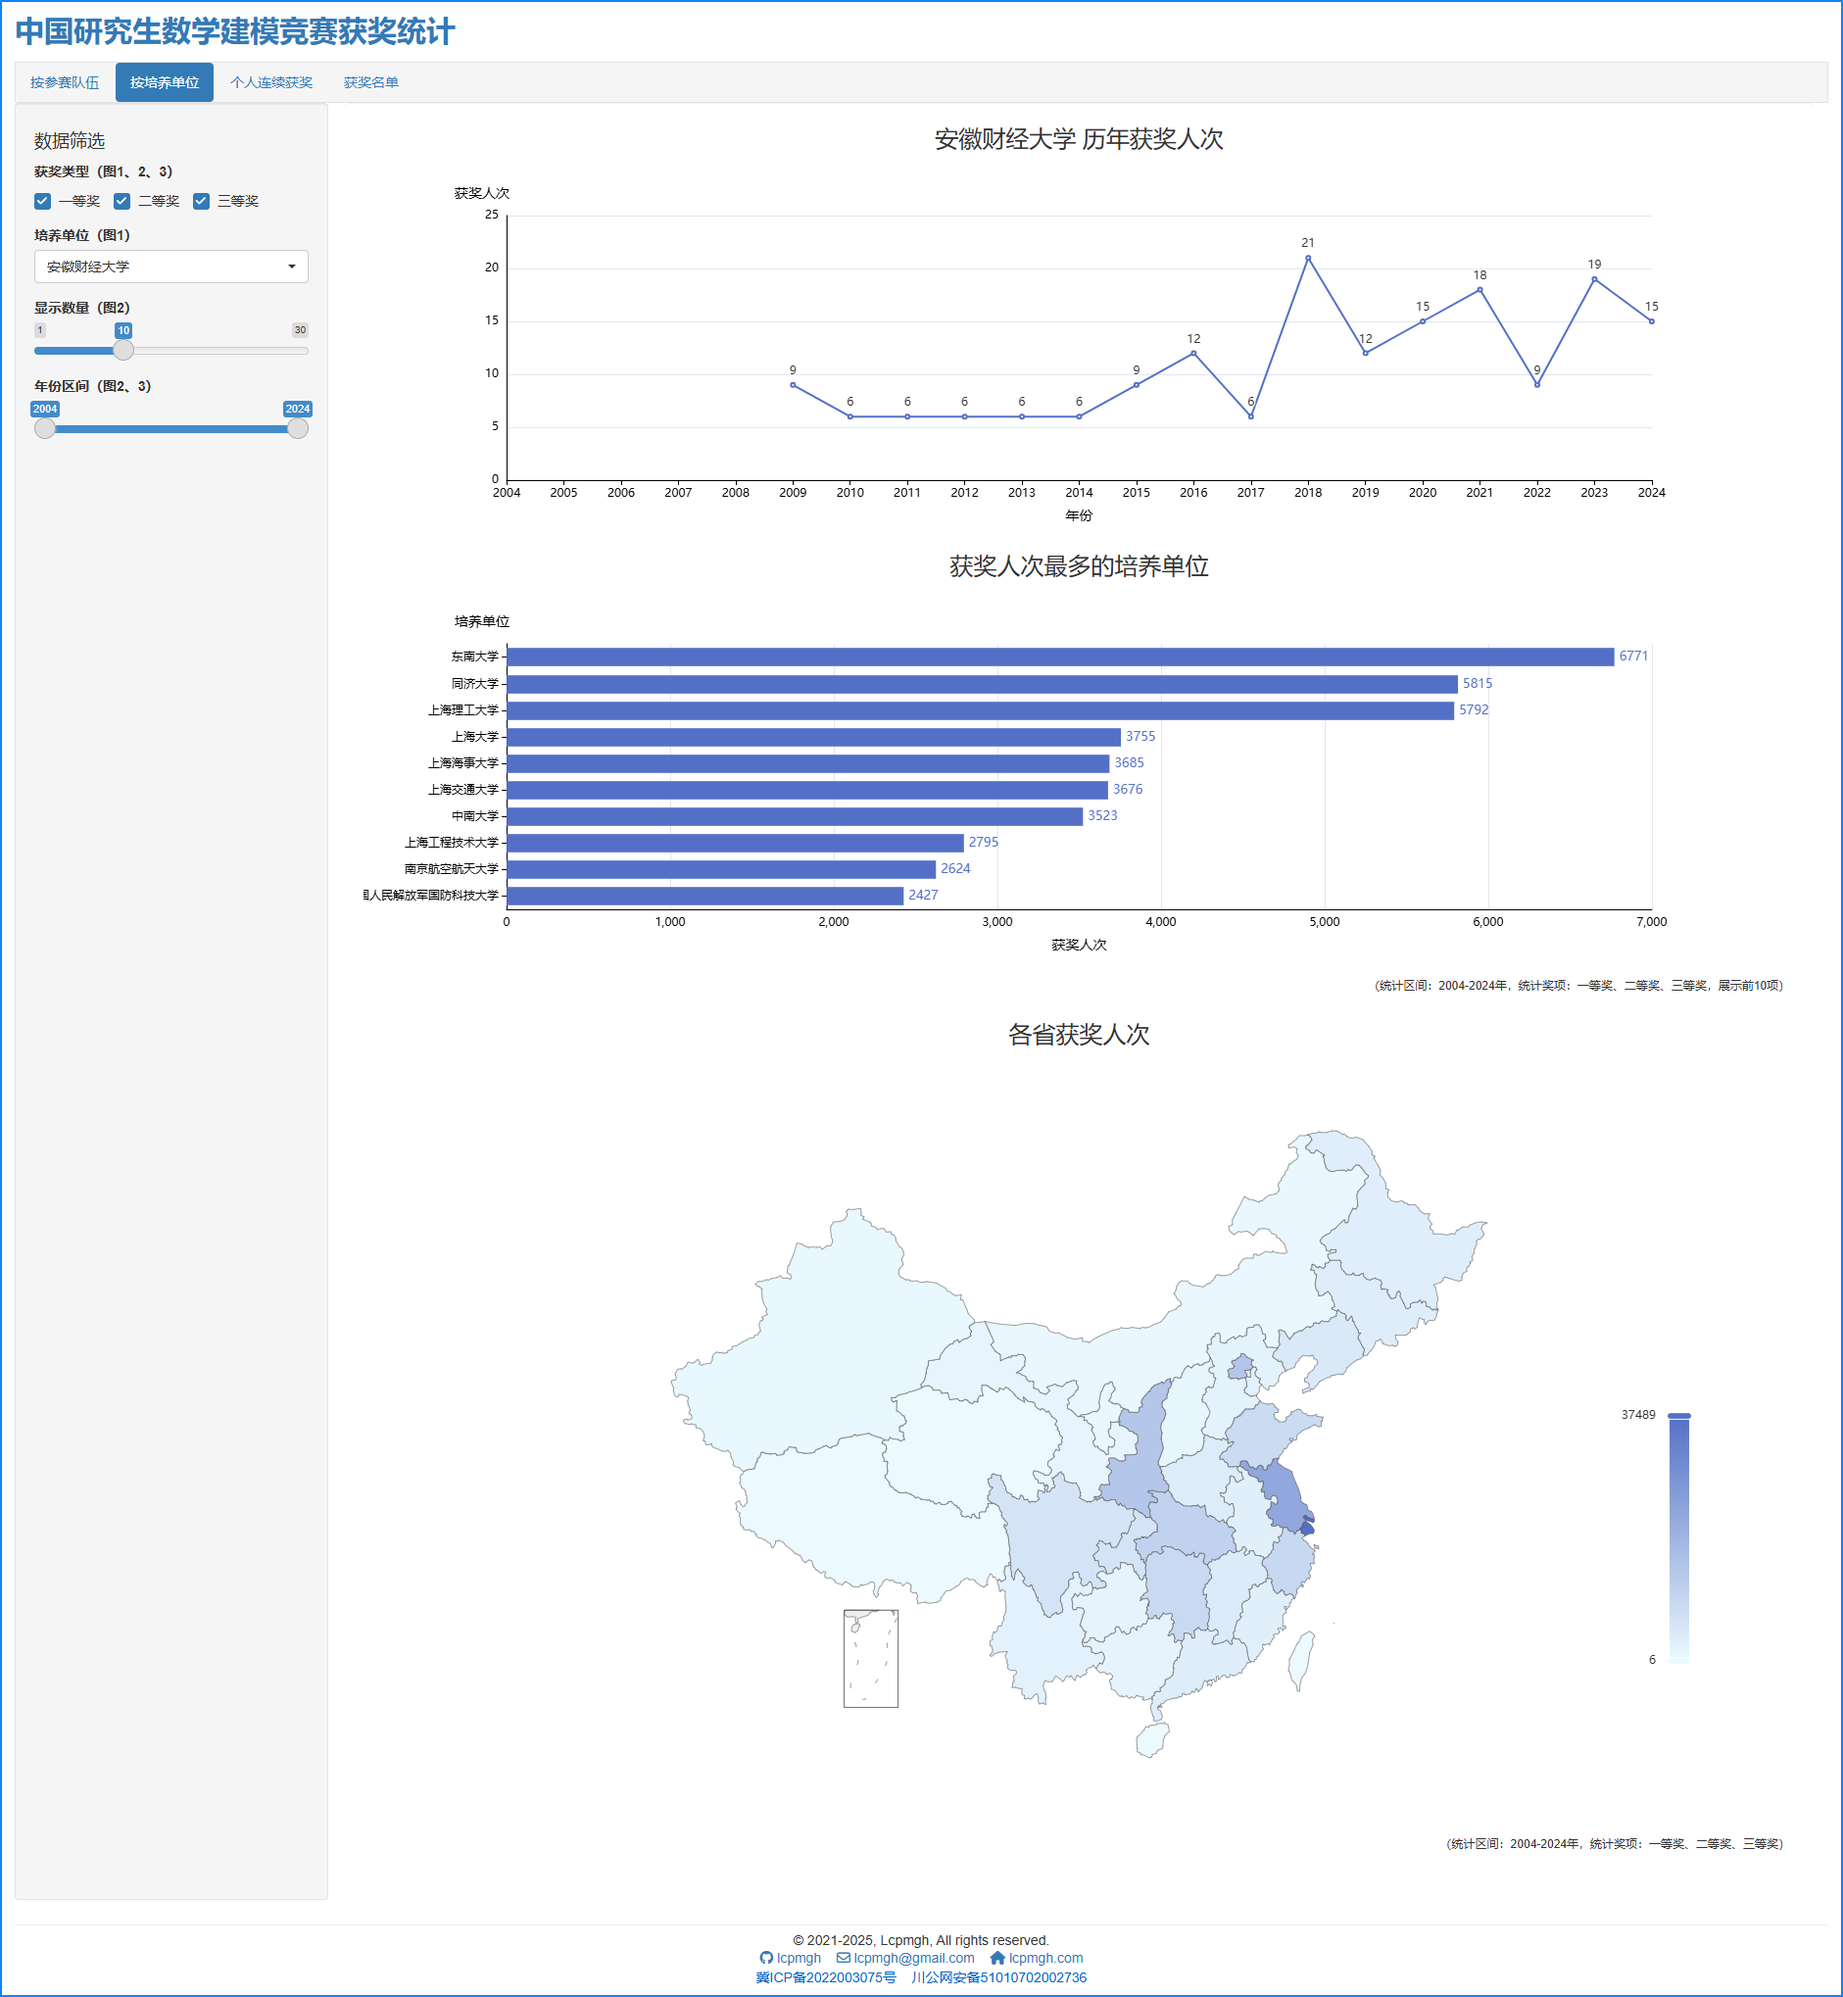
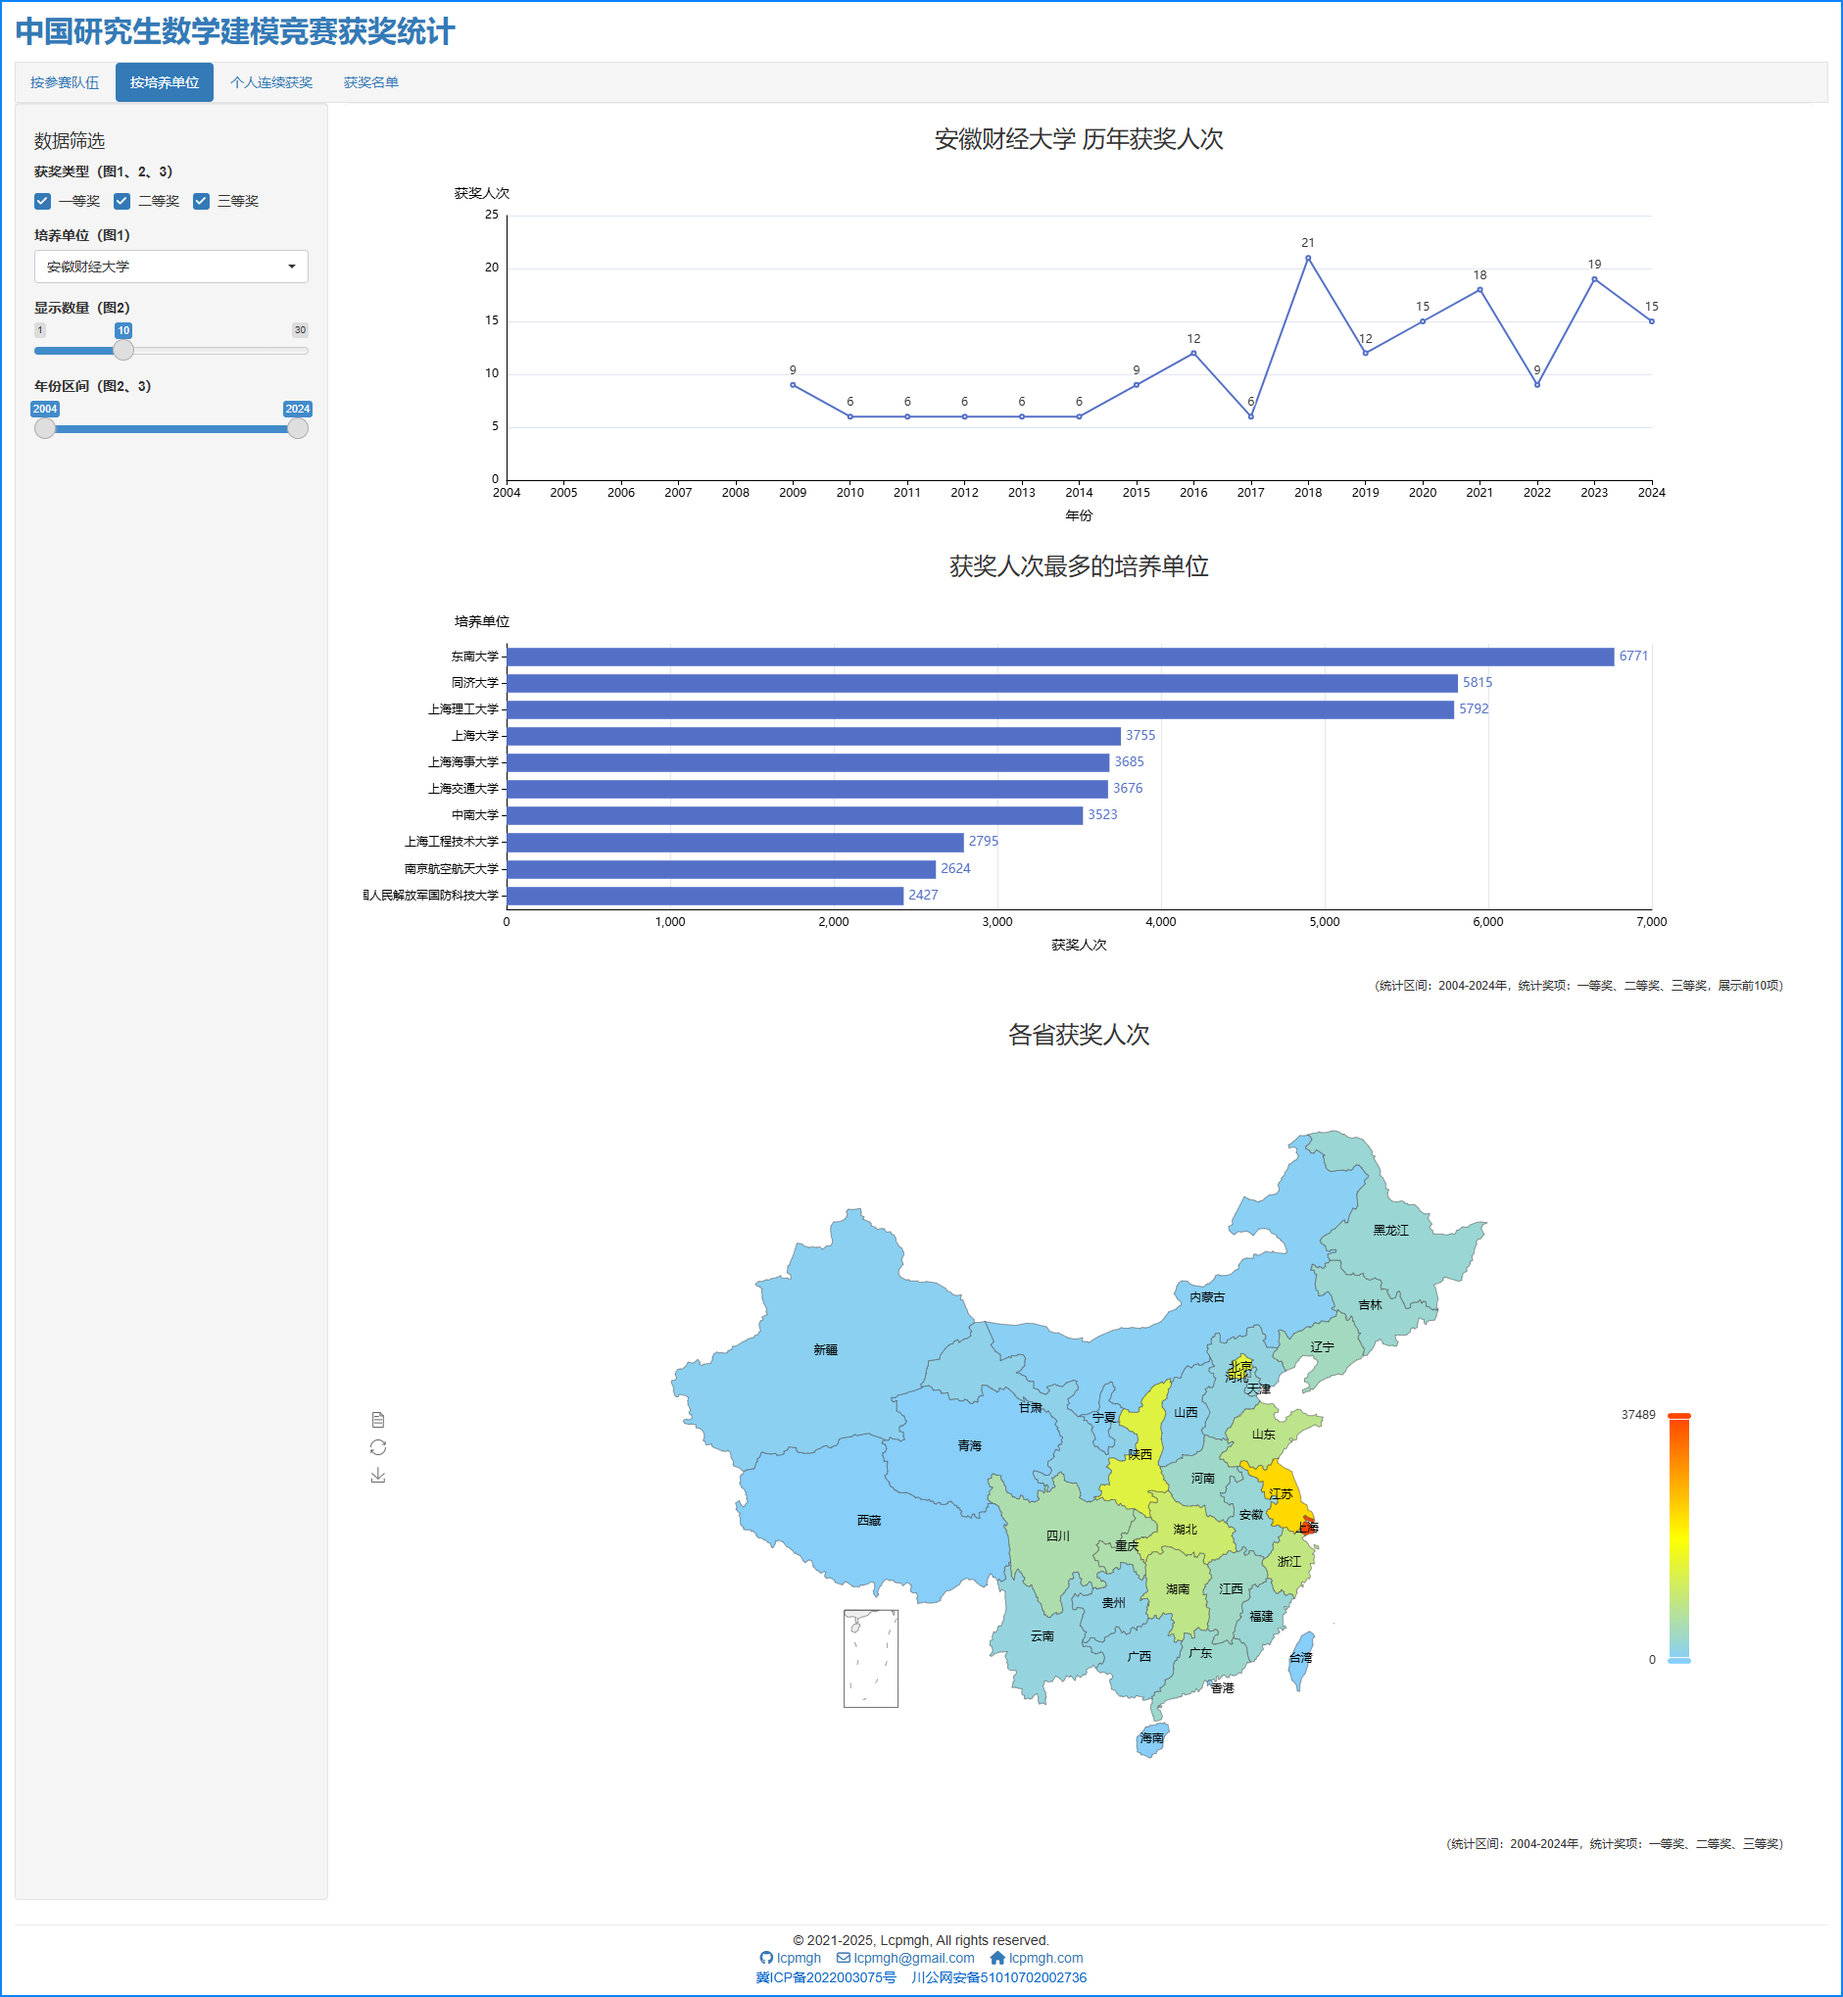
更新至v7.0

diff --git a/Readme.md b/Readme.md
@@ -49,10 +49,10 @@
    + 2024年起，新增了国际赛道题目，目前仅两条数据，因此所有统计信息中，都没有考虑此类题型（题型为H、G，见2024.csv最后两行）。
    + 目前已在3-unit_info_dataset.csv中添加了所有培养单位的所在的国家级、省级、地级信息，然而由于地图绘制耗时，仅省级json等待时间都很长，因此并没有进一步分析展示地级市信息，后续版本可能会利用这部分信息。
 3. **更换、精简R包**：
-   + 用echarty包替换ECharts2Shiny包：后者可调参数少、版本旧、与绘制交互地图的REmap等包冲突。
-   + 用echarty包替换ggplot2包：后者静态图并不适合shinyapp。
-   + 用echarts4r替换REmap：REmap很久没更新，现在画图有bug。这里没有用echarty包，是因为这个包画地图时仍有问题没解决，而echart4r包同样通过ecahrt画图，只是版本比较旧了，后续会继续尝试用echarty包画地图。
-4. **更换页面顺序**：最早版本将队伍信息放在第一页，然而由于REmap与ECharts2Shiny冲突，因此将获奖名单改为了第一页，如今两个包都被替换，冲突问题得以解决，因此恢复了更为适合的页面顺序。
+   + 用`echarty`包替换`ECharts2Shiny`包：后者可调参数少、版本旧、与绘制交互地图的`REmap`等包冲突。
+   + 用`echarty`包替换`ggplot2`包：后者静态图并不适合shinyapp。
+   + 用`echarty`包替换`REmap`包：后者很久没更新，现在画地图有bug。
+4. **更换页面顺序**：最早版本将队伍信息放在第一页，然而由于`REmap`与`ECharts2Shiny`冲突，因此将获奖名单改为了第一页，如今两个包都被替换，冲突问题得以解决，因此恢复了更为适合的页面顺序。
 5. **更改图类型**：第一页中的获奖概率、获奖数量（按体型）和获奖数量（按奖项）三个图改为折线堆叠图，并且中堆叠图中添加了一个普通的折线图层，标记总和。
 6. **更改页面内容**：将原第三页（现第二页）标题名改为”按培养单位“，并且添加了一个图，用以显示某特定培养单位历年获奖情况。
 7. **其他细节**：优化了页面整体siderbar和mian的布局效果。

diff --git a/v7.0/#readme_v7.0.md b/v7.0/#readme_v7.0.md
@@ -5,10 +5,10 @@
    + 2024年起，新增了国际赛道题目，目前仅两条数据，因此所有统计信息中，都没有考虑此类题型（题型为H、G，见2024.csv最后两行）。
    + 目前已在3-unit_info_dataset.csv中添加了所有培养单位的所在的国家级、省级、地级信息，然而由于地图绘制耗时，仅省级json等待时间都很长，因此并没有进一步分析展示地级市信息，后续版本可能会利用这部分信息。
 1. **更换、精简R包**：
-   + 用echarty包替换ECharts2Shiny包：后者可调参数少、版本旧、与绘制交互地图的REmap等包冲突。
-   + 用echarty包替换ggplot2包：后者静态图并不适合shinyapp。
-   + 用echarts4r替换REmap：REmap很久没更新，现在画图有bug。这里没有用echarty包，是因为这个包画地图时仍有问题没解决，而echart4r包同样通过ecahrt画图，只是版本比较旧了，后续会继续尝试用echarty包画地图。
-1. **更换页面顺序**：最早版本将队伍信息放在第一页，然而由于REmap与ECharts2Shiny冲突，因此将获奖名单改为了第一页，如今两个包都被替换，冲突问题得以解决，因此恢复了更为适合的页面顺序。
+   + 用`echarty`包替换`ECharts2Shiny`包：后者可调参数少、版本旧、与绘制交互地图的`REmap`等包冲突。
+   + 用`echarty`包替换`ggplot2`包：后者静态图并不适合shinyapp。
+   + 用`echarty`包替换`REmap`包：后者很久没更新，现在画地图有bug。
+1. **更换页面顺序**：最早版本将队伍信息放在第一页，然而由于`REmap`与`ECharts2Shiny`冲突，因此将获奖名单改为了第一页，如今两个包都被替换，冲突问题得以解决，因此恢复了更为适合的页面顺序。
 1. **更改图类型**：第一页中的获奖概率、获奖数量（按体型）和获奖数量（按奖项）三个图改为折线堆叠图，并且中堆叠图中添加了一个普通的折线图层，标记总和。
 1. **更改页面内容**：将原第三页（现第二页）标题名改为”按培养单位“，并且添加了一个图，用以显示某特定培养单位历年获奖情况。
 1. **其他细节**：优化了页面整体siderbar和mian的布局效果。
